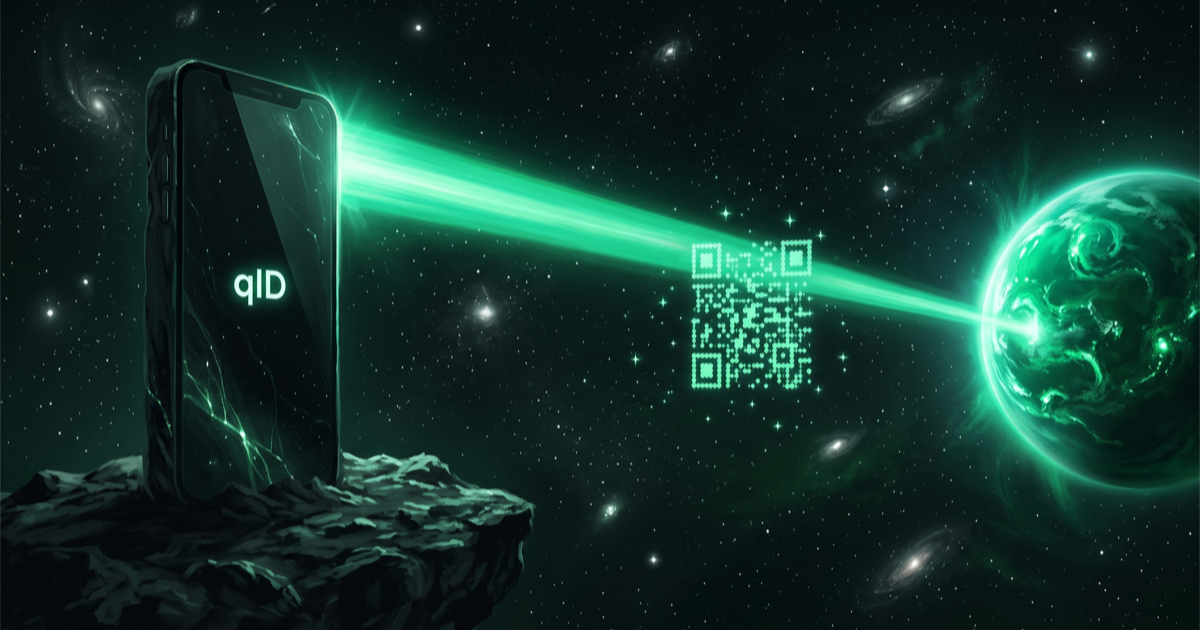
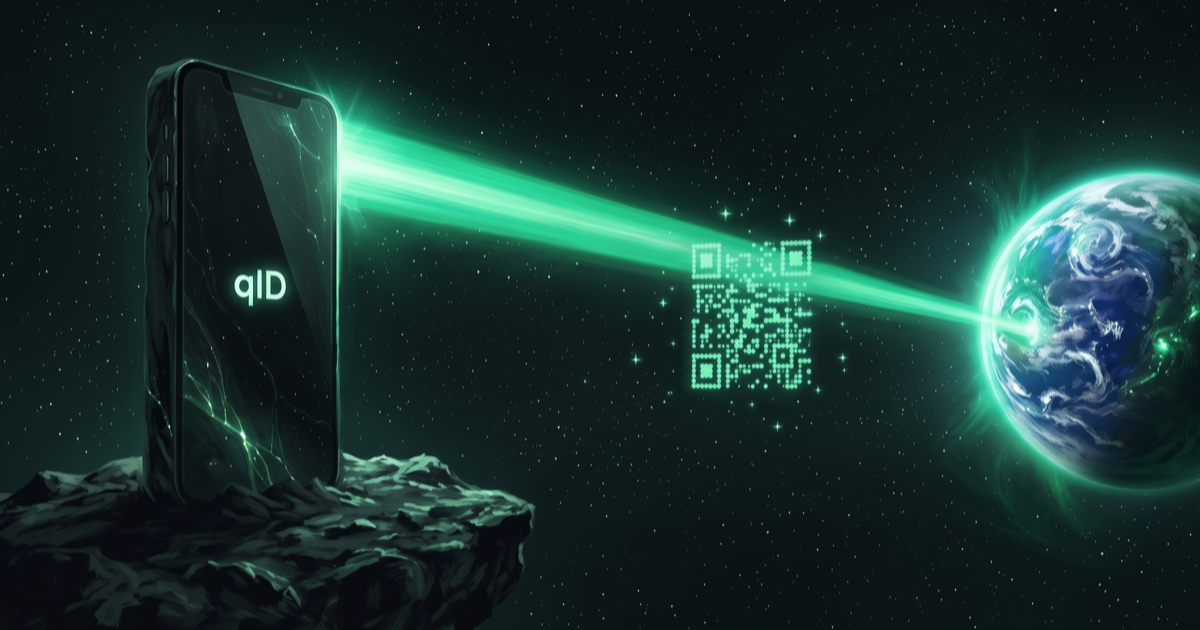
OG art: one cosmic family across all pages — blue home world, cleaner starfield
Mende's pick (phone monolith beaming a QR constellation) becomes the base
scene for every page, image-referenced for consistency: landing swaps the
QR for a key+shield constellation, integrate threads the beam through a
circuit-ring gateway, connect keeps the original. Planet is now blue and
Earth-like on all three; background galaxies reduced. Cache-busted
og.png?v=4 / og-connect?v=3 / og-integrate?v=2; alt texts updated.

diff --git a/connect/integrate/index.html b/connect/integrate/index.html
@@ -13,14 +13,14 @@
 <meta property="og:title" content="Integrate Sign in with qID">
 <meta property="og:description" content="One middleware, one button: post-quantum wallet login for your BTX dApp. The address is the account.">
 <meta property="og:url" content="https://qid.dev/connect/integrate">
-<meta property="og:image" content="https://qid.dev/og/og-integrate.png">
+<meta property="og:image" content="https://qid.dev/og/og-integrate.png?v=2">
 <meta property="og:image:width" content="1200">
 <meta property="og:image:height" content="630">
-<meta property="og:image:alt" content="A colossal emerald circuit-gateway assembled from glowing code fragments in deep space — integrate Sign in with qID.">
+<meta property="og:image:alt" content="An emerald circuit-gateway rings the beam as a QR constellation streams toward a blue world — integrate Sign in with qID.">
 <meta name="twitter:card" content="summary_large_image">
 <meta name="twitter:title" content="Integrate Sign in with qID">
 <meta name="twitter:description" content="Wallet login for BTX apps: one middleware, one button. The address is the account.">
-<meta name="twitter:image" content="https://qid.dev/og/og-integrate.png">
+<meta name="twitter:image" content="https://qid.dev/og/og-integrate.png?v=2">
 <style>
   :root{--bg:#050c08;--panel:#0a1710;--panel2:#101613;--border:#1c3527;--fg:#e7f5ec;--muted:#7fa38e;--accent:#34d399;--mint:#6ee7b7;--warn:#fbbf24}
   *{box-sizing:border-box;margin:0}

diff --git a/connect/index.html b/connect/index.html
@@ -14,14 +14,14 @@
 <meta property="og:title" content="Sign in with qID — try it live in 10 seconds">
 <meta property="og:description" content="Post-quantum wallet login for BTX apps, running entirely in your browser. No wallet needed.">
 <meta property="og:url" content="https://qid.dev/connect">
-<meta property="og:image" content="https://qid.dev/og/og-connect.png?v=2">
+<meta property="og:image" content="https://qid.dev/og/og-connect.png?v=3">
 <meta property="og:image:width" content="1200">
 <meta property="og:image:height" content="630">
-<meta property="og:image:alt" content="A bridge of emerald light connecting a phone monolith to a radiant world, a QR constellation midway — Sign in with qID.">
+<meta property="og:image:alt" content="A phone monolith beams emerald light to a blue world, a QR constellation midway — Sign in with qID.">
 <meta name="twitter:card" content="summary_large_image">
 <meta name="twitter:title" content="Sign in with qID — try it live in 10 seconds">
 <meta name="twitter:description" content="Post-quantum wallet login, live in your browser. No wallet needed.">
-<meta name="twitter:image" content="https://qid.dev/og/og-connect.png?v=2">
+<meta name="twitter:image" content="https://qid.dev/og/og-connect.png?v=3">
 <style>
   :root{--bg:#050c08;--panel:#0a1710;--panel2:#101613;--border:#1c3527;--fg:#e7f5ec;--muted:#7fa38e;--accent:#34d399;--mint:#6ee7b7}
   *{box-sizing:border-box;margin:0}

diff --git a/index.html b/index.html
@@ -10,14 +10,14 @@
 <meta property="og:type" content="website" />
 <meta property="og:url" content="https://qid.dev/" />
 <meta property="og:site_name" content="qID" />
-<meta property="og:image" content="https://qid.dev/og.png?v=3" />
+<meta property="og:image" content="https://qid.dev/og.png?v=4" />
 <meta property="og:image:width" content="1200" />
 <meta property="og:image:height" content="630" />
-<meta property="og:image:alt" content="A luminous emerald seed-star radiating a quantum lattice of keys and shields across deep space — qID." />
+<meta property="og:image:alt" content="An obsidian phone beams emerald light to a blue world; midway, stars form a key and shield — qID." />
 <meta name="twitter:card" content="summary_large_image" />
 <meta name="twitter:title" content="qID: post-quantum identity" />
 <meta name="twitter:description" content="Keys, addresses, spends, login, recovery, and encryption, all from one seed. NIST FIPS 203/204/205." />
-<meta name="twitter:image" content="https://qid.dev/og.png?v=3" />
+<meta name="twitter:image" content="https://qid.dev/og.png?v=4" />
 <meta name="theme-color" media="(prefers-color-scheme: dark)" content="#0a0e12" />
 <meta name="theme-color" media="(prefers-color-scheme: light)" content="#fafcfd" />
 <link rel="canonical" href="https://qid.dev/" />
